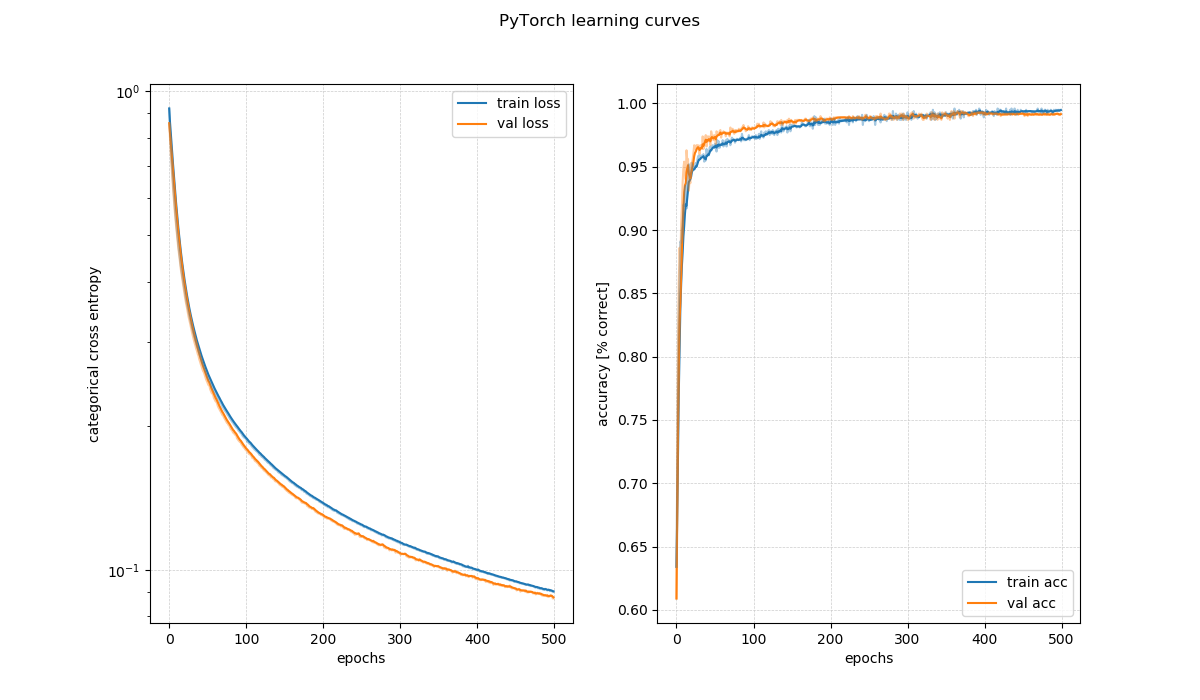
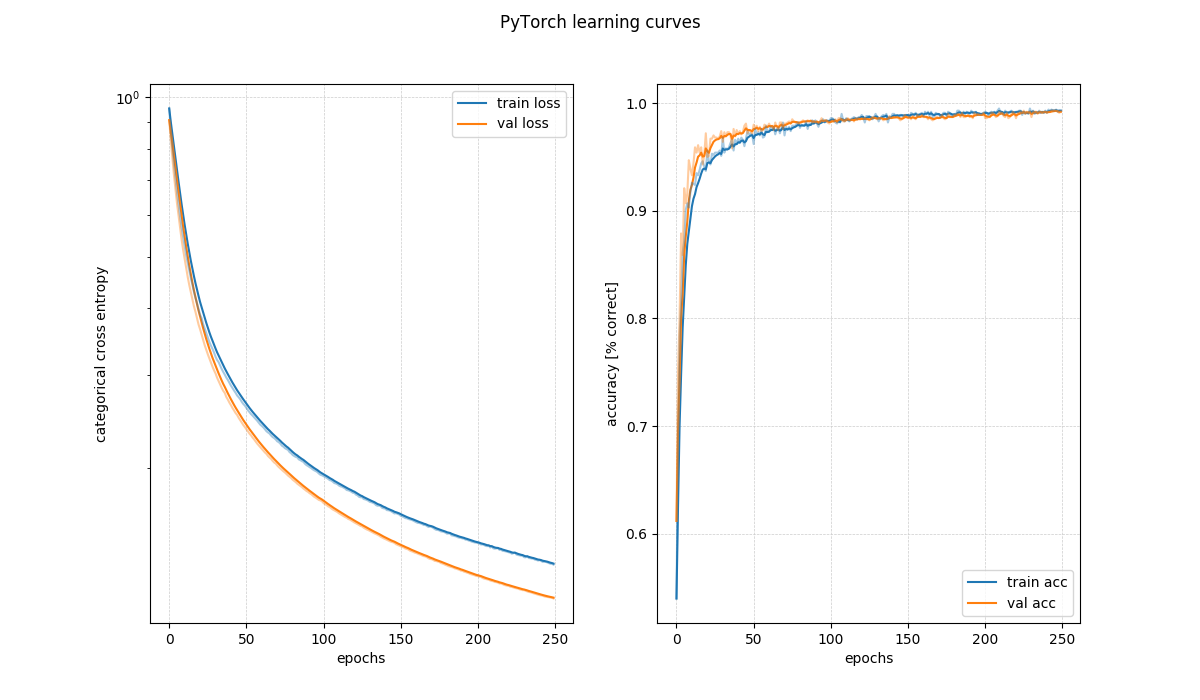
correct bugs when training on GPU

diff --git a/test.py b/test.py
@@ -1,10 +1,14 @@
+import matplotlib
+# needed to run this script on a server without GUI
+matplotlib.use('Agg') 
+
 import torch
 from simplenet import modules, criterions, optimizers
 from datasets_gen import generate_disk_dataset
 from simplenet.training import ModelTrainer
 
-
 def main():
+    # train on GPU if any available
     cuda = torch.cuda.is_available()
 
     #**************************************************************************************
@@ -15,17 +19,15 @@ def main():
         modules.Linear(128, 1),
         modules.Tanh()
     )
-
     if cuda:
         model.cuda()
-
-    print(model)
 
     train_input, train_target, test_input, test_target = generate_disk_dataset(1000, 1000, cuda)
     mt = ModelTrainer(model, criterions.MSELoss(), optimizers.SGD(model.parameters(), lr=0.01),
                       y_hat_fun=torch.sign)
 
-    print("\n                     Train SimpleNet model on toy dataset")
+    print("\n### Train SimpleNet model on toy dataset ###")
+    print(model, "\n")
     mt.fit((train_input, train_target), (test_input, test_target), epochs=250, batch_size=100, verbose=10)
 
     mt.plot_training("SimpleNet learning curves", avg_w_size=5, filename="simplenet_learning_curves.png")
@@ -39,7 +41,9 @@ def main():
         nn.Linear(128, 1),
         nn.Tanh()
     )
-
+    if cuda:
+        model.cuda()
+    
     train_input = autograd.Variable(train_input)
     train_target = autograd.Variable(train_target)
     test_input = autograd.Variable(test_input)
@@ -48,7 +52,8 @@ def main():
     mt = ModelTrainer(model, nn.MSELoss(), optim.SGD(model.parameters(), lr=0.01),
                       y_hat_fun=torch.sign, pytorch_model=True)
 
-    print("\n\n                      Training PyTorch model on toy dataset")
+    print("\n\n### Training PyTorch model on toy dataset ###")
+    print(model, "\n")
     mt.fit((train_input, train_target), (test_input, test_target), epochs=250, batch_size=100, verbose=10)
 
     mt.plot_training("PyTorch learning curves", avg_w_size=5, filename="pytorch_learning_curves.png")

diff --git a/simplenet/modules.py b/simplenet/modules.py
@@ -41,7 +41,7 @@ class Module(object):
         return [] if len(self.params) == 0 else list(self.params.values())
 
     def cuda(self):
-        for p in self.params.values():
+        for p in self.parameters():
             p.cuda()
 
     def forward(self, *input):
@@ -104,25 +104,20 @@ class Linear(Module):
         std = math.sqrt(2.0 / (output_dim + input_dim))
 
         ws = torch.zeros(output_dim, input_dim).normal_(0, std) if w_init is None else w_init
-        self.weights = Parameter(ws, name=self.__repr__() + " w")
+        self.params['w'] = Parameter(ws, name=self.__repr__() + " w")
 
         bs = torch.zeros(output_dim).uniform_(-std, std) if b_init is None else b_init
-        self.bias = Parameter(bs, name=self.__repr__() + " b")
-
-        self.params = {
-            'w': self.weights,
-            'b': self.bias
-        }
+        self.params['b'] = Parameter(bs, name=self.__repr__() + " b")
 
     def forward(self, input):
         self.activations = input
-        out = (input @ self.weights.data.t()) + self.bias.data
+        out = (input @ self.params['w'].data.t()) + self.params['b'].data
         return out
 
     def backward(self, gradwrtoutput):
-        self.bias.add_grad(gradwrtoutput.sum(0))
-        self.weights.add_grad(gradwrtoutput.t() @ self.activations)
-        g_output = gradwrtoutput @ self.weights.data
+        self.params['b'].add_grad(gradwrtoutput.sum(0))
+        self.params['w'].add_grad(gradwrtoutput.t() @ self.activations)
+        g_output = gradwrtoutput @ self.params['w'].data
         return g_output
 
     def __repr__(self):
@@ -159,7 +154,7 @@ class Sequential(Module):
         for l in reversed(self.layers):
             gradout = l.backward(gradout)
         return gradout
-
+            
     def parameters(self):
         """Return the paramters of all children modules"""
         params = []

diff --git a/simplenet/training.py b/simplenet/training.py
@@ -44,7 +44,7 @@ class ModelTrainer(object):
         N = x_train.data.shape[0] if self.pytorch_model else x_train.shape[0]
 
         if x_train.is_cuda:
-            self.model = self.model.cuda()
+            self.model.cuda()
             self.criterion = self.criterion.cuda()
 
         if self.pytorch_model:

diff --git a/simplenet/criterions.py b/simplenet/criterions.py
@@ -7,7 +7,7 @@ class Criterion(object):
 
     def cuda(self):
         # for pytorch api compatibility
-        return
+        return self
 
     def forward(self, y_hat, target):
         """Compute the loss"""
